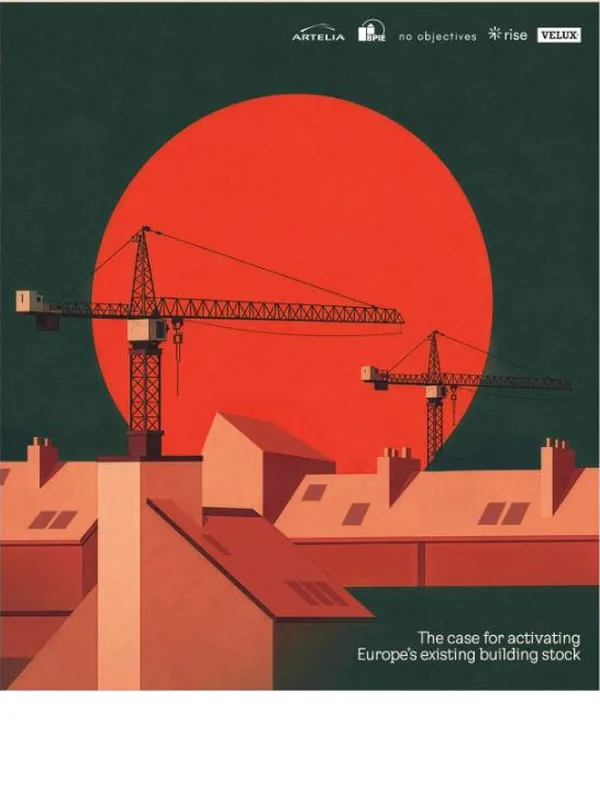
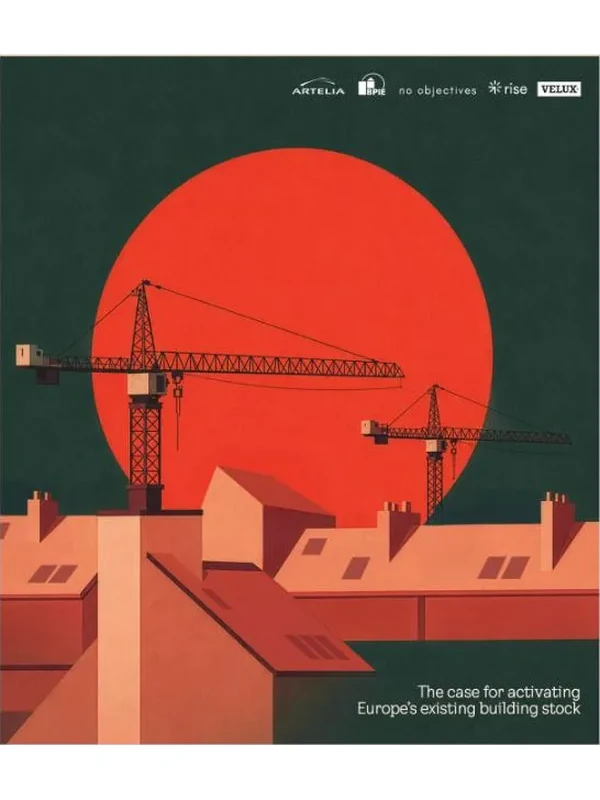
Latest shows six, and the VELUX cover sits centred
**Latest, six instead of three.** The band was hardcoded to three. The grid
is three columns on a desktop, two below 62rem and one below 40rem, so three
cards fill the first and orphan one in the second: two, then a single card on
a line by itself, which is what a narrow window showed. Six divides by three
and by two, so no width leaves a short row. Same count and same reasoning as
the publications band below it.

Openings are left out of the band. The three adverts are the three newest
posts, so six unfiltered would have been half job adverts and would have
pushed both COP31 sessions off. They are already carried by "Coming up" at
the top of the page and by /join/, which is why the announcement post came
down. They stay in /news/.

Two `where_exp` filters rather than one with `and`: Liquid's `where_exp`
takes a single comparison, and a compound one is a parse error that breaks
the build.

The band now reads: GBDI association (featured), COP31 context-specific
pathways, wood and biochar, the two COP31 sessions, IGBC Mumbai, the WLC
Network and INDICATE LIFE closing event.

**The VELUX cover, centred.** `assets/img/pubs/toth-2026-housing-we-need.webp`
had the artwork flush to the top edge and 109 px of white below it, so the
card looked bottom-heavy. Measured rather than eyeballed: the artwork is 691
rows of the 800, and it now sits with 54 px above and 55 px below. The
artwork is moved, not resized and not re-cropped, so nothing is lost, the
[…]

diff --git a/index.md b/index.md
@@ -301,11 +301,31 @@ permalink: /
       across as everywhere else now.
 
       Featured first, then by date.
+
+      Six since 4 Nov 2026, not three, and the reason is arithmetic. The grid
+      is three columns on a desktop, two below 62rem and one below 40rem.
+      Three cards fill the first of those and orphan one in the second: two
+      and then a single card on a line of its own, which is what Martin saw
+      in a narrow window. Six divides by three and by two, so every row is
+      full at every width. It is the same count, and the same reasoning, as
+      the publications band below.
+
+      Openings are left out (Martin, 4 Nov 2026). The three adverts are the
+      three newest posts, so taking six without filtering would have made
+      half of "Latest" job adverts and pushed both COP31 sessions off it.
+      They are already carried by "Coming up" at the top of this page and by
+      /join/, which is also why the announcement post came down. They stay
+      in /news/, where a reader is looking for everything.
+
+      Two `where_exp` filters rather than one with `and`: Liquid's
+      `where_exp` takes a single comparison, and a compound one is a parse
+      error that breaks the build rather than a filter that returns nothing.
     {%- endcomment -%}
     <h2>Latest</h2>
-    {%- assign featured = site.posts | where: "featured", true -%}
-    {%- assign others = site.posts | where_exp: "p", "p.featured != true" -%}
-    {%- assign latest = featured | concat: others | slice: 0, 3 -%}
+    {%- assign newsish = site.posts | where_exp: "p", "p.type != 'opening'" -%}
+    {%- assign featured = newsish | where: "featured", true -%}
+    {%- assign others = newsish | where_exp: "p", "p.featured != true" -%}
+    {%- assign latest = featured | concat: others | slice: 0, 6 -%}
     {% include postcards.html posts=latest %}
     <p class="more"><a href="{{ '/news/' | relative_url }}">All news and events →</a></p>
   </div>
